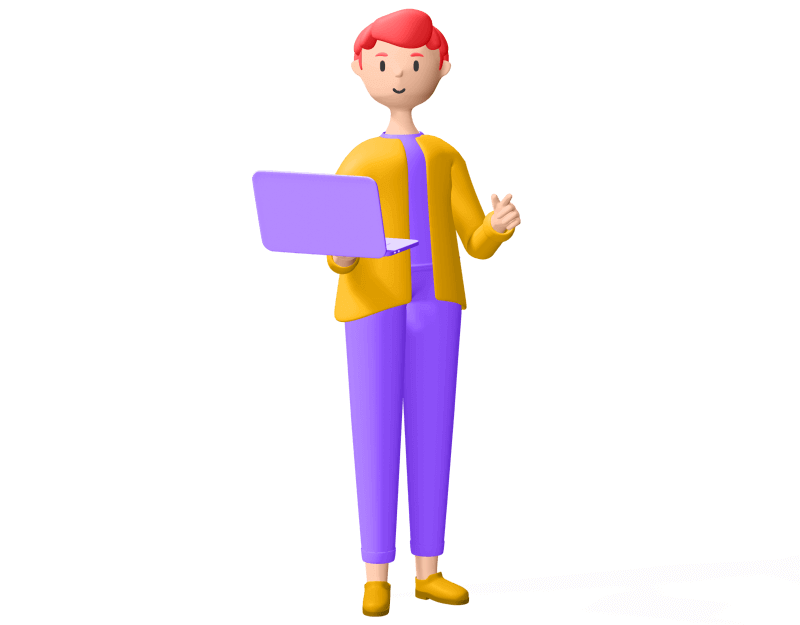
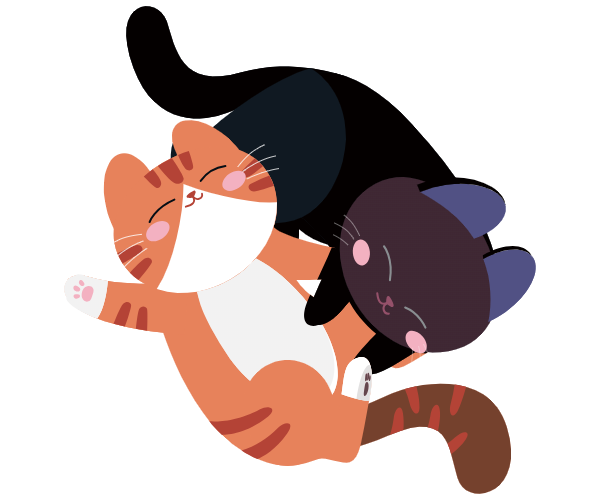
update

diff --git a/apps/maoxianqiu/loading.html b/apps/maoxianqiu/loading.html
@@ -1,93 +1,4 @@
 <style>
-@keyframes rainbow {
-  0% { --rainbow-color: #00a98e; }
-  1.25% { --rainbow-color: #00a996; }
-  2.5% { --rainbow-color: #00a99f; }
-  3.75% { --rainbow-color: #00a9a7; }
-  5% { --rainbow-color: #00a9b0; }
-  6.25% { --rainbow-color: #00a9b8; }
-  7.5% { --rainbow-color: #00a9c0; }
-  8.75% { --rainbow-color: #00a8c7; }
-  10% { --rainbow-color: #00a8cf; }
-  11.25% { --rainbow-color: #00a7d5; }
-  12.5% { --rainbow-color: #00a6dc; }
-  13.75% { --rainbow-color: #00a6e2; }
-  15% { --rainbow-color: #00a4e7; }
-  16.25% { --rainbow-color: #00a3ec; }
-  17.5% { --rainbow-color: #00a2f1; }
-  18.75% { --rainbow-color: #00a0f4; }
-  20% { --rainbow-color: #009ff7; }
-  21.25% { --rainbow-color: #009dfa; }
-  22.5% { --rainbow-color: #009bfc; }
-  23.75% { --rainbow-color: #0098fd; }
-  25% { --rainbow-color: #0096fd; }
-  26.25% { --rainbow-color: #0093fd; }
-  27.5% { --rainbow-color: #2e90fc; }
-  28.75% { --rainbow-color: #4d8dfa; }
-  30% { --rainbow-color: #638af8; }
-  31.25% { --rainbow-color: #7587f5; }
-  32.5% { --rainbow-color: #8583f1; }
-  33.75% { --rainbow-color: #9280ed; }
-  35% { --rainbow-color: #9f7ce9; }
-  36.25% { --rainbow-color: #aa78e3; }
-  37.5% { --rainbow-color: #b574dd; }
-  38.75% { --rainbow-color: #be71d7; }
-  40% { --rainbow-color: #c76dd1; }
-  41.25% { --rainbow-color: #cf69c9; }
-  42.5% { --rainbow-color: #d566c2; }
-  43.75% { --rainbow-color: #dc63ba; }
-  45% { --rainbow-color: #e160b3; }
-  46.25% { --rainbow-color: #e65eab; }
-  47.5% { --rainbow-color: #e95ca2; }
-  48.75% { --rainbow-color: #ed5a9a; }
-  50% { --rainbow-color: #ef5992; }
-  51.25% { --rainbow-color: #f15989; }
-  52.5% { --rainbow-color: #f25981; }
-  53.75% { --rainbow-color: #f25a79; }
-  55% { --rainbow-color: #f25c71; }
-  56.25% { --rainbow-color: #f15e69; }
-  57.5% { --rainbow-color: #ef6061; }
-  58.75% { --rainbow-color: #ed635a; }
-  60% { --rainbow-color: #eb6552; }
-  61.25% { --rainbow-color: #e8694b; }
-  62.5% { --rainbow-color: #e46c44; }
-  63.75% { --rainbow-color: #e06f3d; }
-  65% { --rainbow-color: #db7336; }
-  66.25% { --rainbow-color: #d77630; }
-  67.5% { --rainbow-color: #d17a2a; }
-  68.75% { --rainbow-color: #cc7d24; }
-  70% { --rainbow-color: #c6811e; }
-  71.25% { --rainbow-color: #bf8418; }
-  72.5% { --rainbow-color: #b98713; }
-  73.75% { --rainbow-color: #b28a0f; }
-  75% { --rainbow-color: #ab8d0c; }
-  76.25% { --rainbow-color: #a3900b; }
-  77.5% { --rainbow-color: #9c920d; }
-  78.75% { --rainbow-color: #949510; }
-  80% { --rainbow-color: #8b9715; }
-  81.25% { --rainbow-color: #83991b; }
-  82.5% { --rainbow-color: #7a9b21; }
-  83.75% { --rainbow-color: #719d27; }
-  85% { --rainbow-color: #679e2e; }
-  86.25% { --rainbow-color: #5da035; }
-  87.5% { --rainbow-color: #51a13c; }
-  88.75% { --rainbow-color: #44a244; }
-  90% { --rainbow-color: #34a44b; }
-  91.25% { --rainbow-color: #1ba553; }
-  92.5% { --rainbow-color: #00a65b; }
-  93.75% { --rainbow-color: #00a663; }
-  95% { --rainbow-color: #00a76c; }
-  96.25% { --rainbow-color: #00a874; }
-  97.5% { --rainbow-color: #00a87d; }
-  98.75% { --rainbow-color: #00a985; }
-  100% { --rainbow-color: #00a98e; }
-}
-
-:root {
-  --rainbow-color: #00a98e;
-  animation: rainbow 20s linear infinite;
-}
-
 .loading-container {
   position: fixed;
   top: 0;
@@ -119,7 +30,7 @@
 }
 
 .loading-container .loader .circle {
-  --color: var(--rainbow-color);
+  --color: oklch(var(--primary));
   --dim: 1.2rem;
   width: var(--dim);
   height: var(--dim);
